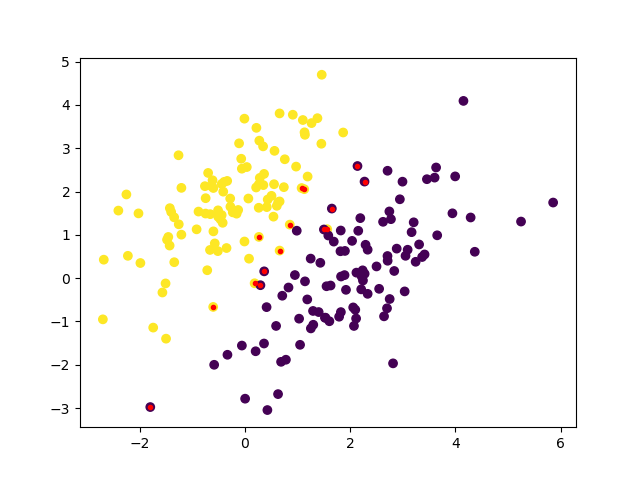
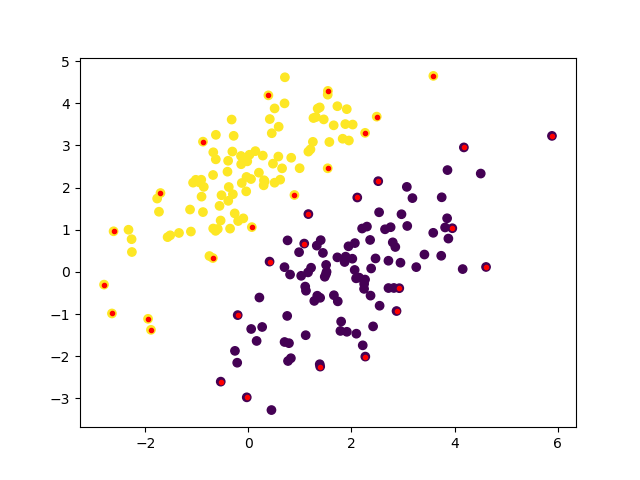
Use Gaussian kernel for the last one

diff --git a/lab4/svm.py b/lab4/svm.py
@@ -146,8 +146,7 @@ def run3():
 	y = np.concatenate((y1, y2), axis=0)
 	C = 1.0
 
-	# TODO: Replace linear kernel by Gaussian
-	svm = SVC(C=C, kernel='linear')
+	svm = SVC(C=C, kernel='rbf')
 	svm.fit(X_train, y_train)
 	y_pred = svm.predict(X_test)
 	correct = np.sum(y_pred == y_test)
